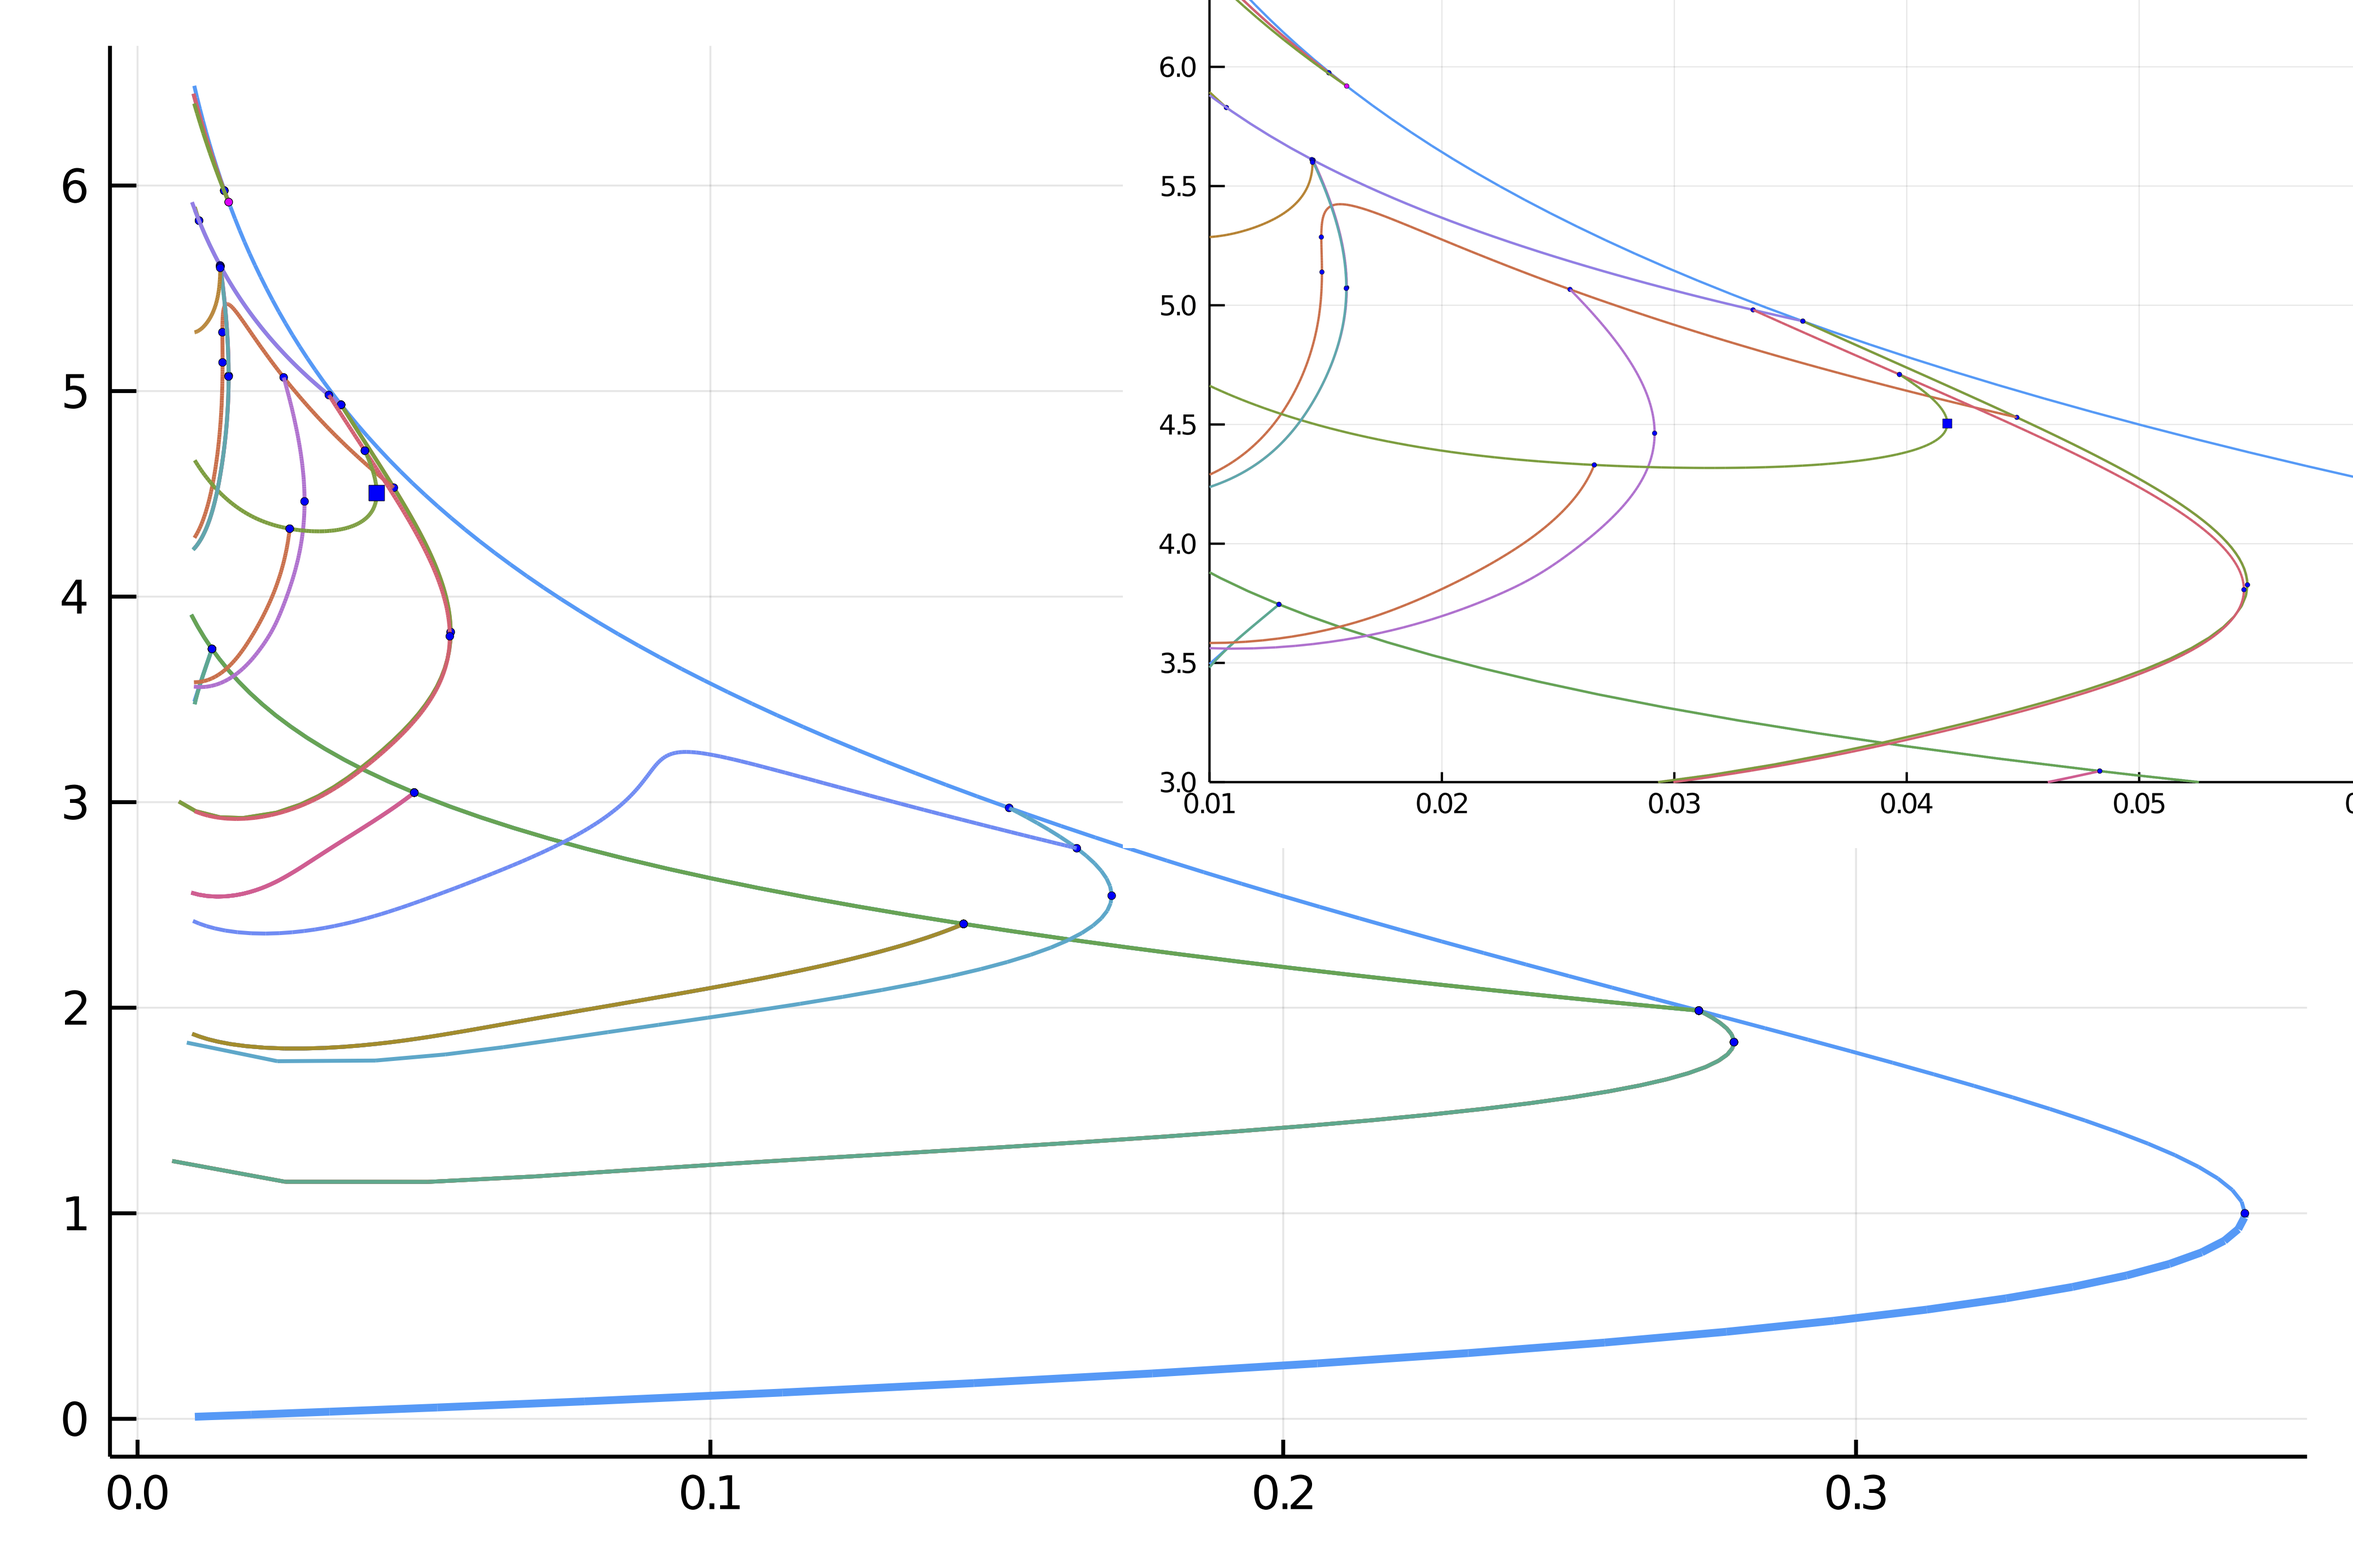
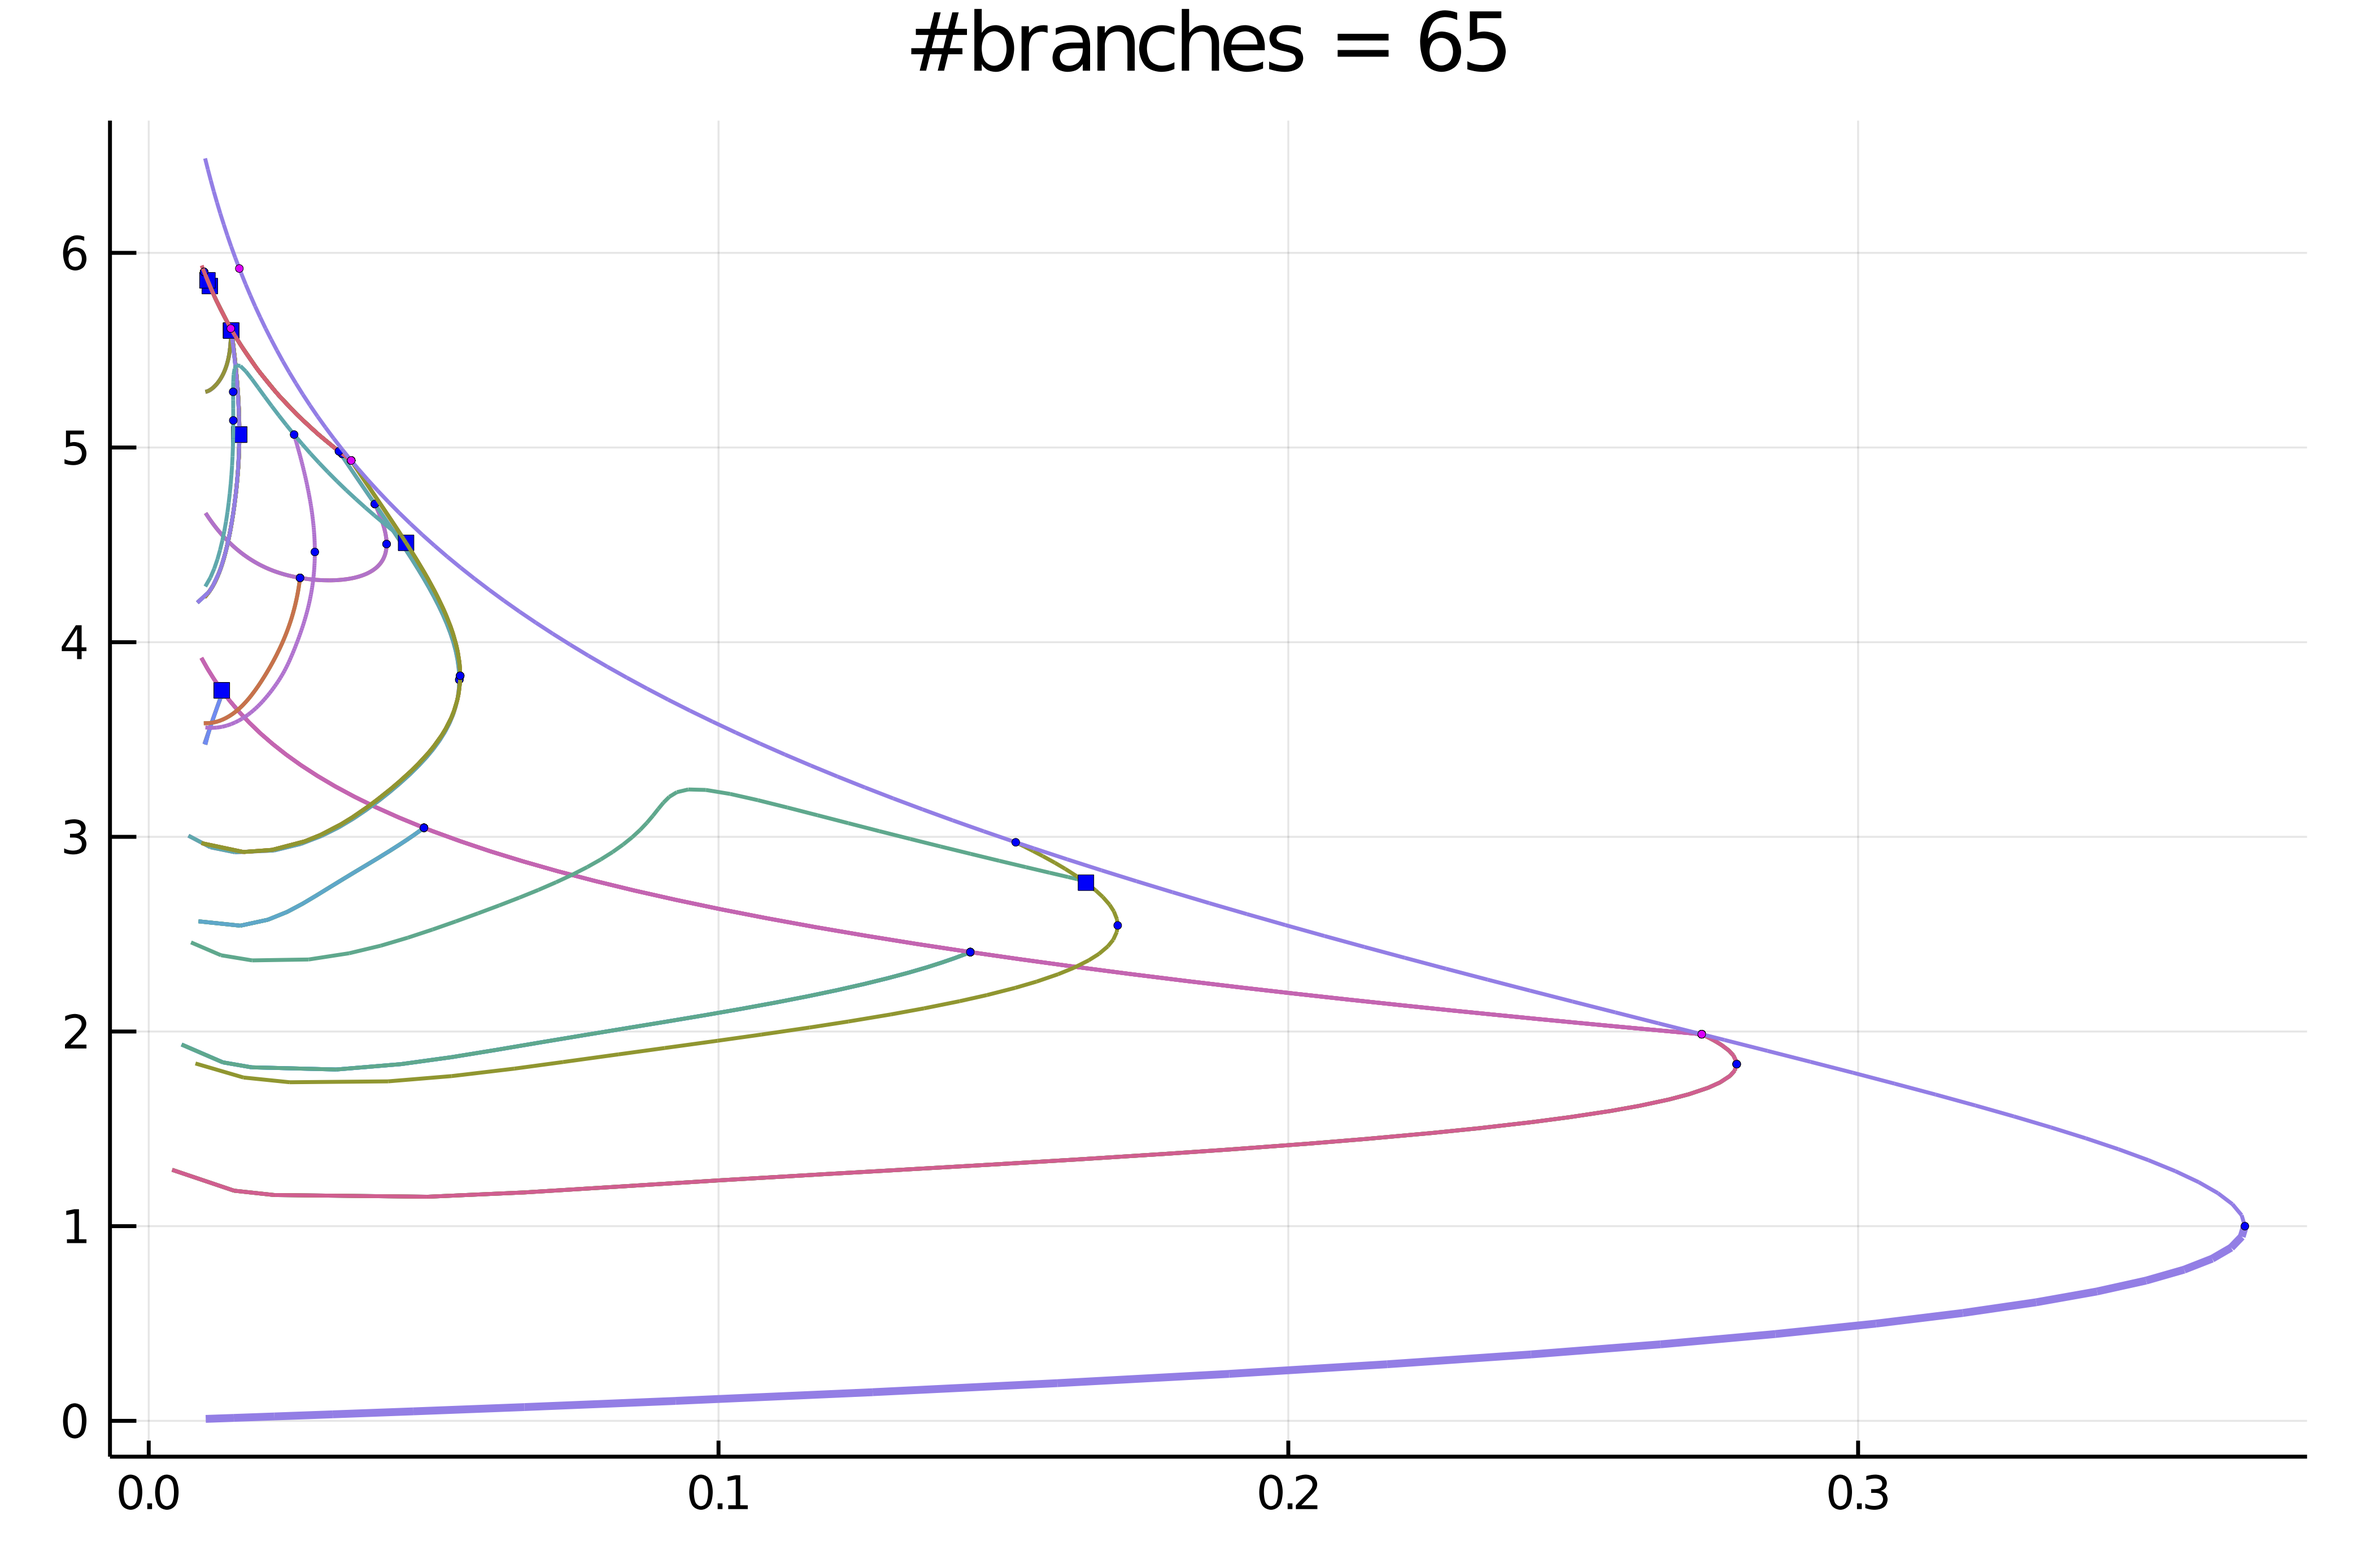
update docs on aBD

diff --git a/docs/src/mittelmannAuto.md b/docs/src/mittelmannAuto.md
@@ -68,7 +68,7 @@ end
 Fmit(u, p) = Fmit!(similar(u), u, p)
 ```
 
-It will also prove useful to have the jacobian of our functional: 
+It will also prove useful to have the jacobian of our functional and the other derivatives: 
 
 ```julia
 function JFmit(x,p)
@@ -76,39 +76,157 @@ function JFmit(x,p)
 	dg = dϕ.(x, p.λ)
 	return J + spdiagm(0 => dg)
 end
+
+D(f, x, p, dx) = ForwardDiff.derivative(t->f(x .+ t .* dx, p), 0.)
+d1Fmit(x,p,dx1) = D((z, p0) -> Fmit(z, p0), x, p, dx1)
+d2Fmit(x,p,dx1,dx2) = D((z, p0) -> d1Fmit(z, p0, dx1), x, p, dx2)
+d3Fmit(x,p,dx1,dx2,dx3) = D((z, p0) -> d2Fmit(z, p0, dx1, dx2), x, p, dx3)
+jet = (Fmit, JFmit, d2Fmit, d3Fmit)
 ```
 
 We need to pass the parameters associated to this problem:
 
 ```julia
-Nx = 200
-Ny = 100
+Nx = 30
+Ny = 30
 lx = 0.5
 ly = 0.5
 
-Δ = Laplacian2D(Nx, Ny, lx, ly)
-par_mit = (λ = .05, Δ = Δ)
+Δ, = Laplacian2D(Nx, Ny, lx, ly)
 
-# initial guess f for newton
-sol0 = zeros(Nx, Ny) |> vec
+# parameters associated with the PDE
+par_mit = (λ = .01, Δ = Δ)
+
+# initial condition
+sol0 = 0*ones(Nx, Ny) |> vec
 ```
 
-To compute the eigenvalues, we opt for the shift-invert strategy with shift `=0.5`
+To compute the eigenvalues, we opt for the solver in `KrylovKit`
 
 ```julia
 # eigensolver
-eigls = EigArpack(0.5, :LM)
+eigls = EigKrylovKit(dim = 70)
 
 # options for Newton solver
-opt_newton = BK.NewtonPar(tol = 1e-8, verbose = true, eigsolver = eigls, maxIter = 20)
+opt_newton = NewtonPar(tol = 1e-8, verbose = true, eigsolver = eigls, maxIter = 20)
 
-# options for continuation
-opts_br = ContinuationPar(dsmin = 0.001, dsmax = 0.05, ds = 0.01, pMax = 3.5, pMin = 0.025,
-	detectBifurcation = 3, nev = 30, plotEveryNsteps = 10, newtonOptions = (@set opt_newton.verbose = true), 
-	maxSteps = 100, precisionStability = 1e-6, nInversion = 4, dsminBisection = 1e-7, maxBisectionSteps = 25)
+# options for continuation, we want to locate very precisely the 
+# bifurcation points, so we tune the bisection accordingly
+opts_br = ContinuationPar(dsmin = 0.0001, dsmax = 0.04, ds = 0.005, pMax = 3.5, pMin = 0.01, detectBifurcation = 3, nev = 50, plotEveryStep = 10, newtonOptions = (@set opt_newton.verbose = false), maxSteps = 251, precisionStability = 1e-6, nInversion = 6, dsminBisection = 1e-7, maxBisectionSteps = 25, tolBisectionEigenvalue = 1e-19)
 ```	 
-Note that we put the option `detectBifurcation = 2` to detect bifurcations precisely with a bisection method. Indeed, we need to locate these branch points precisely to be able to call automatic branch switching.
+
+Note that we put the option `detectBifurcation = 3` to detect bifurcations precisely with a bisection method. Indeed, we need to locate these branch points precisely to be able to call automatic branch switching.
+
+In order to have an output like Auto07p, we provide the finaliser (see arguments of [`continuation`](@ref))
+
+```julia
+function finSol(z, tau, step, br)
+	if ~isnothing(br.bifpoint)
+		if br.bifpoint[end].step == step
+			BK._show(stdout, br.bifpoint[end], step)
+		end
+	end
+	return true
+end
+```
 
 ## Automatic bifurcation diagram
 
+In order to avoid spurious branch switching, we use a callback (see [`continuation`](@ref)) to reject specific continuation steps where the jump in parameters is too large or when the residual is too large:
+
+```julia
+function cb(x,f,J,res,it,itl,optN; kwargs...)
+	_x = get(kwargs, :z0, nothing)
+	if _x isa BorderedArray
+		return (norm(_x.u - x) < 20.5 && abs(_x.p - kwargs[:p]) < 0.05)
+	end
+	true
+end
+```
+
+Finally, before calling the automatic `bifurcationdiagram`, we need to provide a function to adjust the continuation parameters as function of the branching level (Note that this function can be constant).
+
+```julia
+function optionsCont(x,p,l; opt0 = opts_br)
+	if l == 1
+		return opt
+	elseif l==2
+		return setproperties(opt ;detectBifurcation = 3,ds = 0.001, a = 0.75)
+	else
+		return setproperties(opt ;detectBifurcation = 3,ds = 0.00051, dsmax = 0.01)
+	end
+end
+```
+
+We are then ready to compute the bifurcation diagram. If we choose a level 5 of recursion like 
+
+```julia
+diagram = bifurcationdiagram(jet...,
+	sol0, par_mit, (@lens _.λ), 
+	# important argument: this is the maximal 
+	# recursion level 
+	5, 
+	optionsCont;
+	verbosity = 0, plot = true,
+	printSolution = (x, p) -> normbratu(x),
+	callbackN = cb,
+	usedeflation = true,
+	finaliseSolution = finSol,
+	plotSolution = (x, p; kwargs...) -> plotsol!(x ; kwargs...),
+	normC = norminf)
+```
+this gives using `plot(diagram; plotfold = false, putbifptlegend=false, markersize=2);title!("")`:
+
 ![](mittlemanBD.png)
+
+
+## Interactive exploration
+
+We can see that the non 2d branch points (magenta points) have produced non trivial branches. For example, we can look at the first one which is composed of 8 branches
+
+`plot( plot(diagram; code = (2,), plotfold = false, putbifptlegend=false, markersize=2)`
+
+## Interactive computation
+
+Let's say you have been cautious and did not launch a deep bifurcation diagram by using a small recursion level 2:
+
+```julia
+diagram = bifurcationdiagram(jet...,
+	sol0, par_mit, (@lens _.λ), 
+	# here the recusion level is
+	2,
+	optionsCont;
+	verbosity = 0, plot = true,
+	printSolution = (x, p) -> normbratu(x),
+	callbackN = cb,
+	tangentAlgo = BorderedPred(),
+	usedeflation = true,
+	finaliseSolution = finSol,
+	plotSolution = (x, p; kwargs...) -> plotsol!(x ; kwargs...),
+	normC = norminf)
+```
+
+You would end up with this diagram 
+
+![](mittlemanBD2.png)
+
+How can we complete this diagram without recomputing it from scratch? It is easy! For example, let us complete the magenta branches as follow
+
+```julia
+bifurcationdiagram!(jet...,
+	# this improve the first branch on the violet curve. Note that
+	# for symmetry reasons, the first bifurcation point
+	# has 8 branches
+	getBranch(diagram, (1,)), (current = 3, maxlevel = 6), optionsCont;
+	verbosity = 0, plot = true,
+	printSolution = (x, p) -> normbratu(x),
+	callbackN = cb,
+	finaliseSolution = finSol,
+	usedeflation = true,
+	plotSolution = (x, p; kwargs...) -> plotsol!(x ; kwargs...),
+	normC = norminf)
+```
+
+This gives the following diagram. Using this call, you can pinpoint the particular location where to refine the diagram.
+
+![](mittlemanBD3.png)
